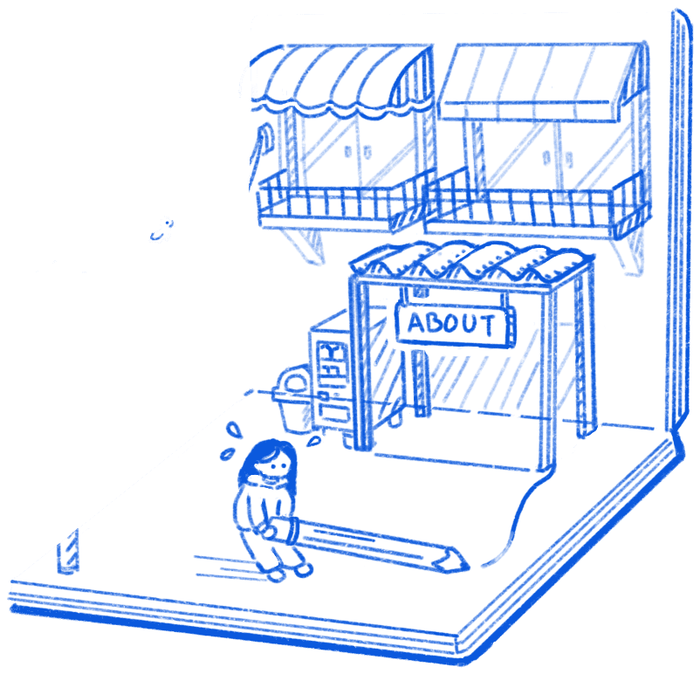
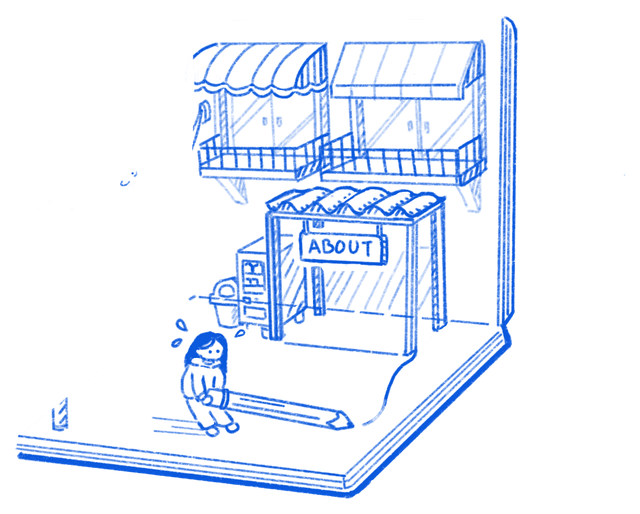
process page: edited illustration, added more images w captions, + added more writing

diff --git a/how-i-built-this.html b/how-i-built-this.html
@@ -392,6 +392,59 @@ body {
   line-height: 1.5;
 }
 
+/* interaction-process screenshots — compact grid, no cropping (object-fit: contain) */
+.hib-interaction-shots {
+  display: grid;
+  grid-template-columns: repeat(auto-fit, minmax(180px, 1fr));
+  gap: 14px;
+  margin-top: 20px;
+}
+.hib-interaction-shot__frame {
+  aspect-ratio: 3 / 2;
+  background: rgba(255,255,255,0.07);
+  border: 1.5px solid rgba(255,255,255,0.12);
+  border-radius: 4px;
+  overflow: hidden;
+  margin-bottom: 8px;
+  display: flex;
+  align-items: center;
+  justify-content: center;
+}
+.hib-interaction-shot__frame img {
+  display: block;
+  width: 100%;
+  height: 100%;
+  object-fit: contain;
+}
+.hib-interaction-shot__caption {
+  font-size: 11px;
+  color: rgba(255,255,255,0.5);
+  line-height: 1.5;
+}
+
+/* single wide screenshot (Procreate gallery overview) — full frame, no cropping */
+.hib-gallery-shot {
+  margin-top: 20px;
+  max-width: 620px;
+}
+.hib-gallery-shot__frame {
+  background: rgba(255,255,255,0.07);
+  border: 1.5px solid rgba(255,255,255,0.12);
+  border-radius: 4px;
+  overflow: hidden;
+  margin-bottom: 8px;
+}
+.hib-gallery-shot__frame img {
+  display: block;
+  width: 100%;
+  height: auto;
+}
+.hib-gallery-shot__caption {
+  font-size: 11px;
+  color: rgba(255,255,255,0.5);
+  line-height: 1.5;
+}
+
 /* "things I paid attention to" list */
 .hib-list {
   list-style: none;
@@ -669,35 +722,34 @@ body {
       <div class="hib-section">
         <div class="hib-section__label">balancing fun and practicality through interactions</div>
         <div class="hib-body">
-          <p>I wanted to have lots of fun interactions but wanted them to be noticeable enough so that the user would be able to also<span class="hib-todo">Elaine: this sentence needs a cleanup pass</span> I didn't want them to be too overstimulated.</p>
+          <p>I wanted to fill the site with fun, playful interactions, but I also wanted them to be noticeable enough that people would actually stop and engage with them — without going so far that it felt overstimulating.</p>
+        </div>
+        <div class="hib-interaction-shots">
+          <figure>
+            <div class="hib-interaction-shot__frame"><img src="/interaction-walk-anim.png" alt="Procreate animation timeline showing a walk cycle" loading="lazy" /></div>
+            <figcaption class="hib-interaction-shot__caption">frames of my walking animation</figcaption>
+          </figure>
+          <figure>
+            <div class="hib-interaction-shot__frame"><img src="/interaction-layers-station.png" alt="Procreate layers panel showing the station interior illustration split across multiple transparent layers" loading="lazy" /></div>
+            <figcaption class="hib-interaction-shot__caption">i separated my drawings into multiple layers with transparent backgrounds and animated them with CSS</figcaption>
+          </figure>
+          <figure>
+            <div class="hib-interaction-shot__frame"><img src="/interaction-layers-blueprint.png" alt="Another hand-drawn illustration built on its own transparent background layer" loading="lazy" /></div>
+            <figcaption class="hib-interaction-shot__caption">another example of the transparent background layer</figcaption>
+          </figure>
         </div>
       </div>
 
       <!-- THE ASSETS -->
       <div class="hib-section">
         <div class="hib-body">
-          <p>This is probably where I poured the most amount of time. All the little doodles and drawings were all hand-drawn.</p>
-          <p>The animations were also all hand-drawn frame by frame. I had no prior animation experience, so looking at references on Pinterest helped a lot. But once I got the hang of it, I had the most fun thinking of new illustrations I could add (<span class="hib-fav-trigger" id="hib-fav-trigger">this one is my current favorite</span>)</p>
+          <p>This is probably where I poured the most time into the whole project — every little doodle and drawing here is hand-drawn.</p>
+          <p>The animations are hand-drawn too, frame by frame. I had zero prior animation experience, so I leaned on Pinterest references to figure it out. Once I got the hang of it, though, I had so much fun coming up with new illustrations to add (<span class="hib-fav-trigger" id="hib-fav-trigger">this one is my current favorite</span>).</p>
         </div>
-        <div class="hib-shots" style="margin-top:20px;">
-          <figure>
-            <div class="hib-shot__frame"><span class="hib-shot__hint">screenshot</span></div>
-            <figcaption class="hib-shot__caption">[caption]</figcaption>
-          </figure>
-          <figure>
-            <div class="hib-shot__frame"><span class="hib-shot__hint">screenshot</span></div>
-            <figcaption class="hib-shot__caption">[caption]</figcaption>
-          </figure>
-          <figure>
-            <div class="hib-shot__frame"><span class="hib-shot__hint">screenshot</span></div>
-            <figcaption class="hib-shot__caption">[caption]</figcaption>
-          </figure>
-          <figure>
-            <div class="hib-shot__frame"><span class="hib-shot__hint">screenshot</span></div>
-            <figcaption class="hib-shot__caption">[caption]</figcaption>
-          </figure>
-        </div>
-        <!-- Elaine: drop in frames of the doodles/animations here — add or remove <figure> blocks as needed. -->
+        <figure class="hib-gallery-shot">
+          <div class="hib-gallery-shot__frame"><img src="/assets-gallery-overview.png" alt="Procreate gallery view of all the hand-drawn assets made for this portfolio" loading="lazy" /></div>
+          <figcaption class="hib-gallery-shot__caption">a peek into my Procreate gallery — every hand-drawn asset for this site, the ones that made it in and the ones that didn't</figcaption>
+        </figure>
       </div>
 
       <!-- GITHUB ACTIVITY -->
@@ -716,6 +768,8 @@ body {
       <div class="hib-section">
         <div class="hib-section__label">what I learned</div>
         <ul class="hib-list">
+          <li>If you have an idea, act on it ASAP. Because either you're going to forget after a few minutes or someone else is going to think of it. <s>Some</s> actually, most of my best ideas came to me very randomly, but I'm SO glad I wrote them down and executed them.</li>
+          <li>Being inspired is important, but it’s also equally important to not get bogged down in aimlessly looking for inspo (because then you’re just wasting time…)</li>
           <li>Being organized is SUCH a big deal and sped up the process SOOO much when I figured out an efficient way to work. I could literally just plug and chug any ideas I wanted to implement — this was especially helpful when I got feedback from others.</li>
           <li>Obviously, when you give Claude or Cursor a prompt, it's going to take some time to execute it, so during that downtime I made sure I was either working on an illustration/animation, writing up a case study, finding design inspo — just doing anything to add to my portfolio instead of sitting idly or doomscrolling.</li>
         </ul>
